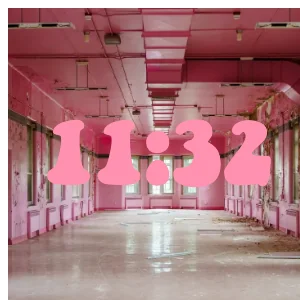
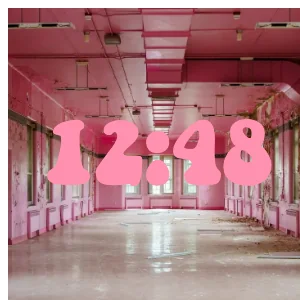
x

diff --git a/src/pages/2026/26-07/26-07-30/Clock.module.css b/src/pages/2026/26-07/26-07-30/Clock.module.css
@@ -16,7 +16,18 @@
   width: 100%;
   height: 100%;
   object-fit: fill;
-  filter: brightness(1.2) contrast(1.1) saturate(0.4);
+  filter: brightness(1.3) contrast(1.5) saturate(3.0); /* Adjusted to make tree pop and sky more receptive */
+}
+
+.blueSkyOverlay {
+  position: absolute;
+  inset: 0;
+  width: 100%;
+  height: 100%;
+  background-image: linear-gradient(to top, rgb(220, 44, 16), rgb(248, 168, 9), rgb(111, 7, 111));
+  mix-blend-mode: multiply; /* Use multiply to color the white sky */
+  opacity: 0.3; /* Adjusted for better blending with the gradient */
+  z-index: 1; /* Sits on top of the video, but below the time */
 }
 
 .timeContainer {
@@ -55,14 +66,18 @@
   /* 
     Use multiple drop-shadow filters to create a 1px stroke *outside* the text.
     This respects the transparent text fill and doesn't cover the texture.
-    The final drop-shadow adds the white glow.
   */
   filter: saturate(9) 
+    /* Black 1px pixel shadow all around */
     drop-shadow(1px 1px 0px #000)
     drop-shadow(-1px -1px 0px #000)
     drop-shadow(1px -1px 0px #000)
     drop-shadow(-1px 1px 0px #000)
-    drop-shadow(0 0 8px rgba(255, 255, 255, 0.8));
+    /* White 1px pixel shadow all around, offset by 2px to be outside the black */
+    drop-shadow(2px 2px 0px #fff)
+    drop-shadow(-2px -2px 0px #fff)
+    drop-shadow(2px -2px 0px #fff)
+    drop-shadow(-2px 2px 0px #fff);
 }
 
 /* Standard from ARCHITECTURE.md for accessible, visually-hidden elements */

diff --git a/src/pages/2026/26-07/26-07-30/Clock.tsx b/src/pages/2026/26-07/26-07-30/Clock.tsx
@@ -84,6 +84,7 @@ const ClockComponent: FC = () => {
           muted
           playsInline
         />
+        <div className={styles.blueSkyOverlay} aria-hidden="true" />
       </div>
 
       <div className={styles.timeContainer}>
